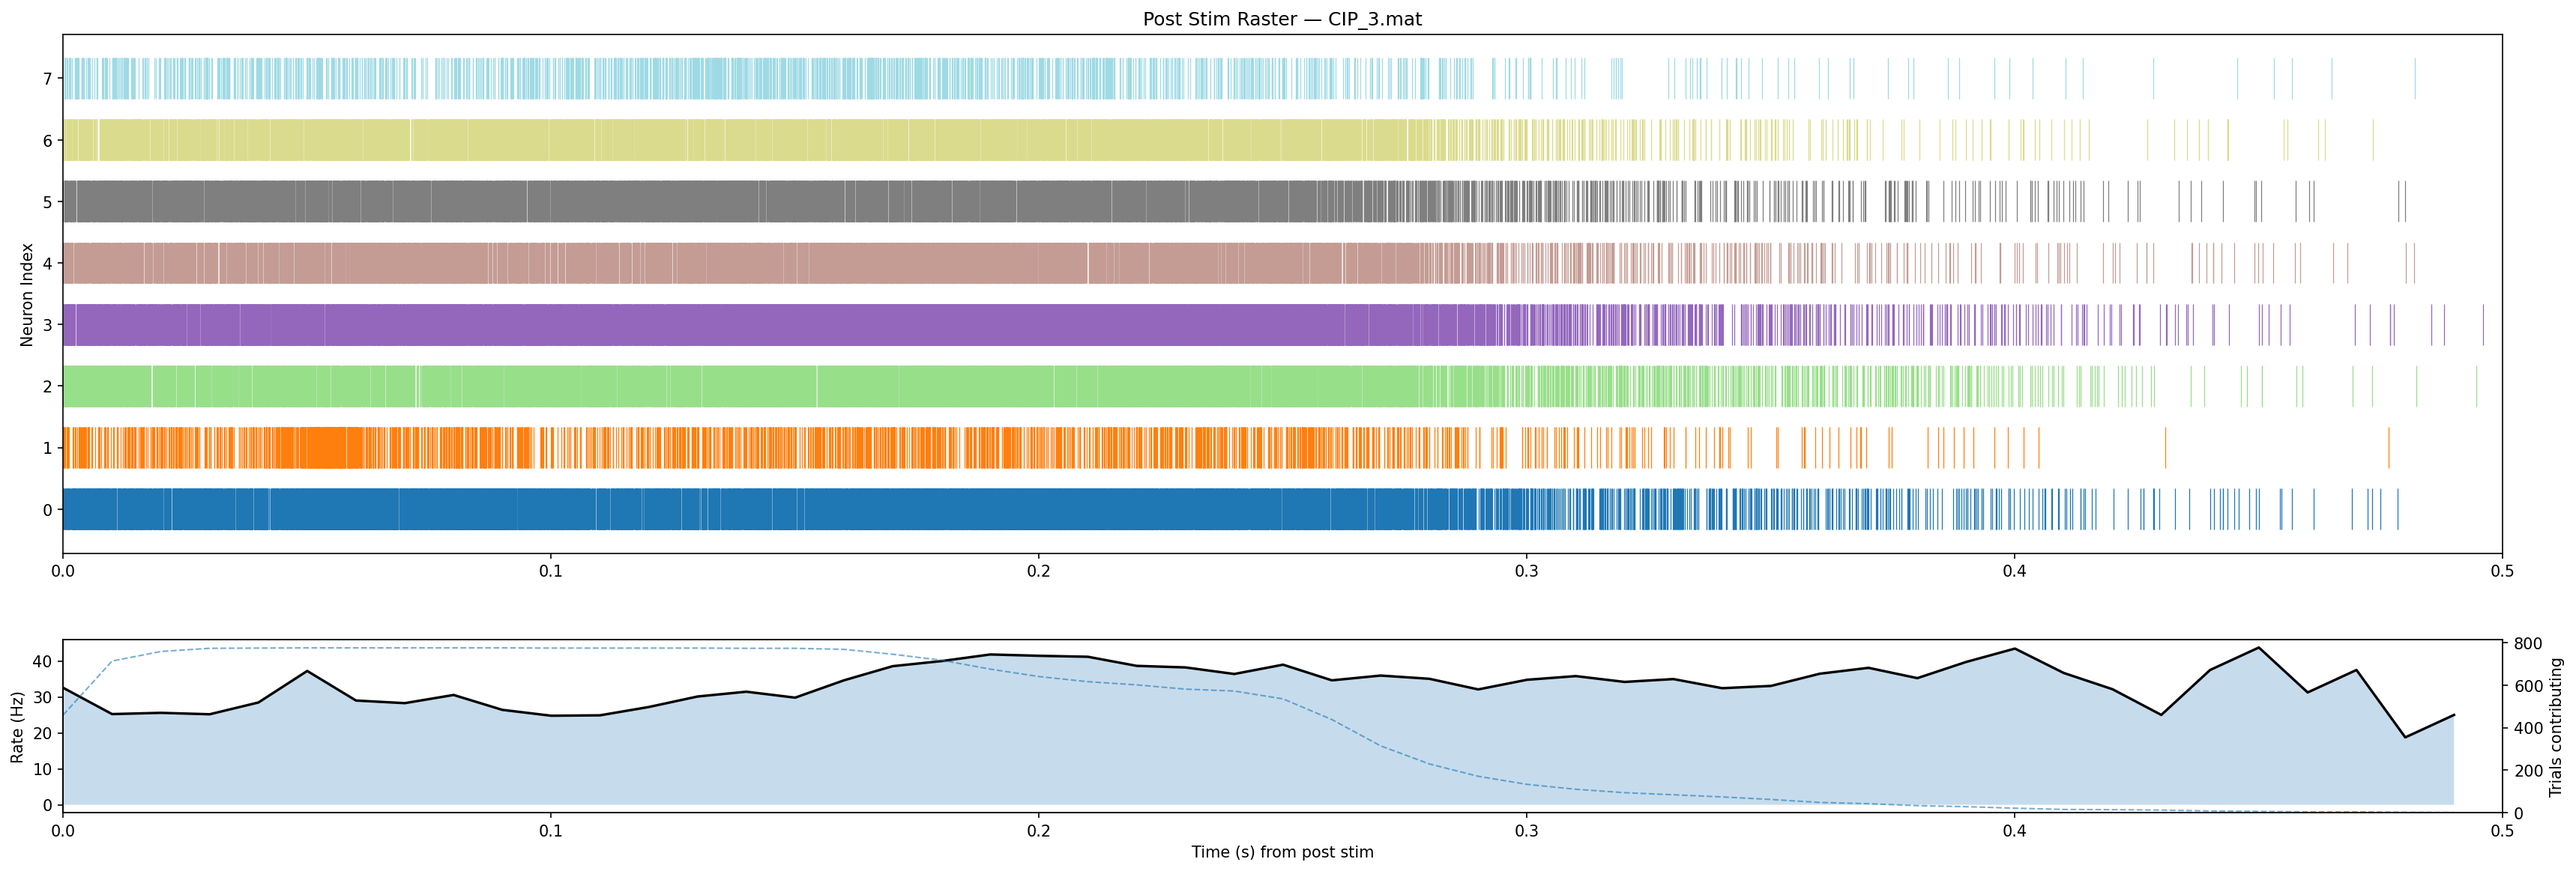
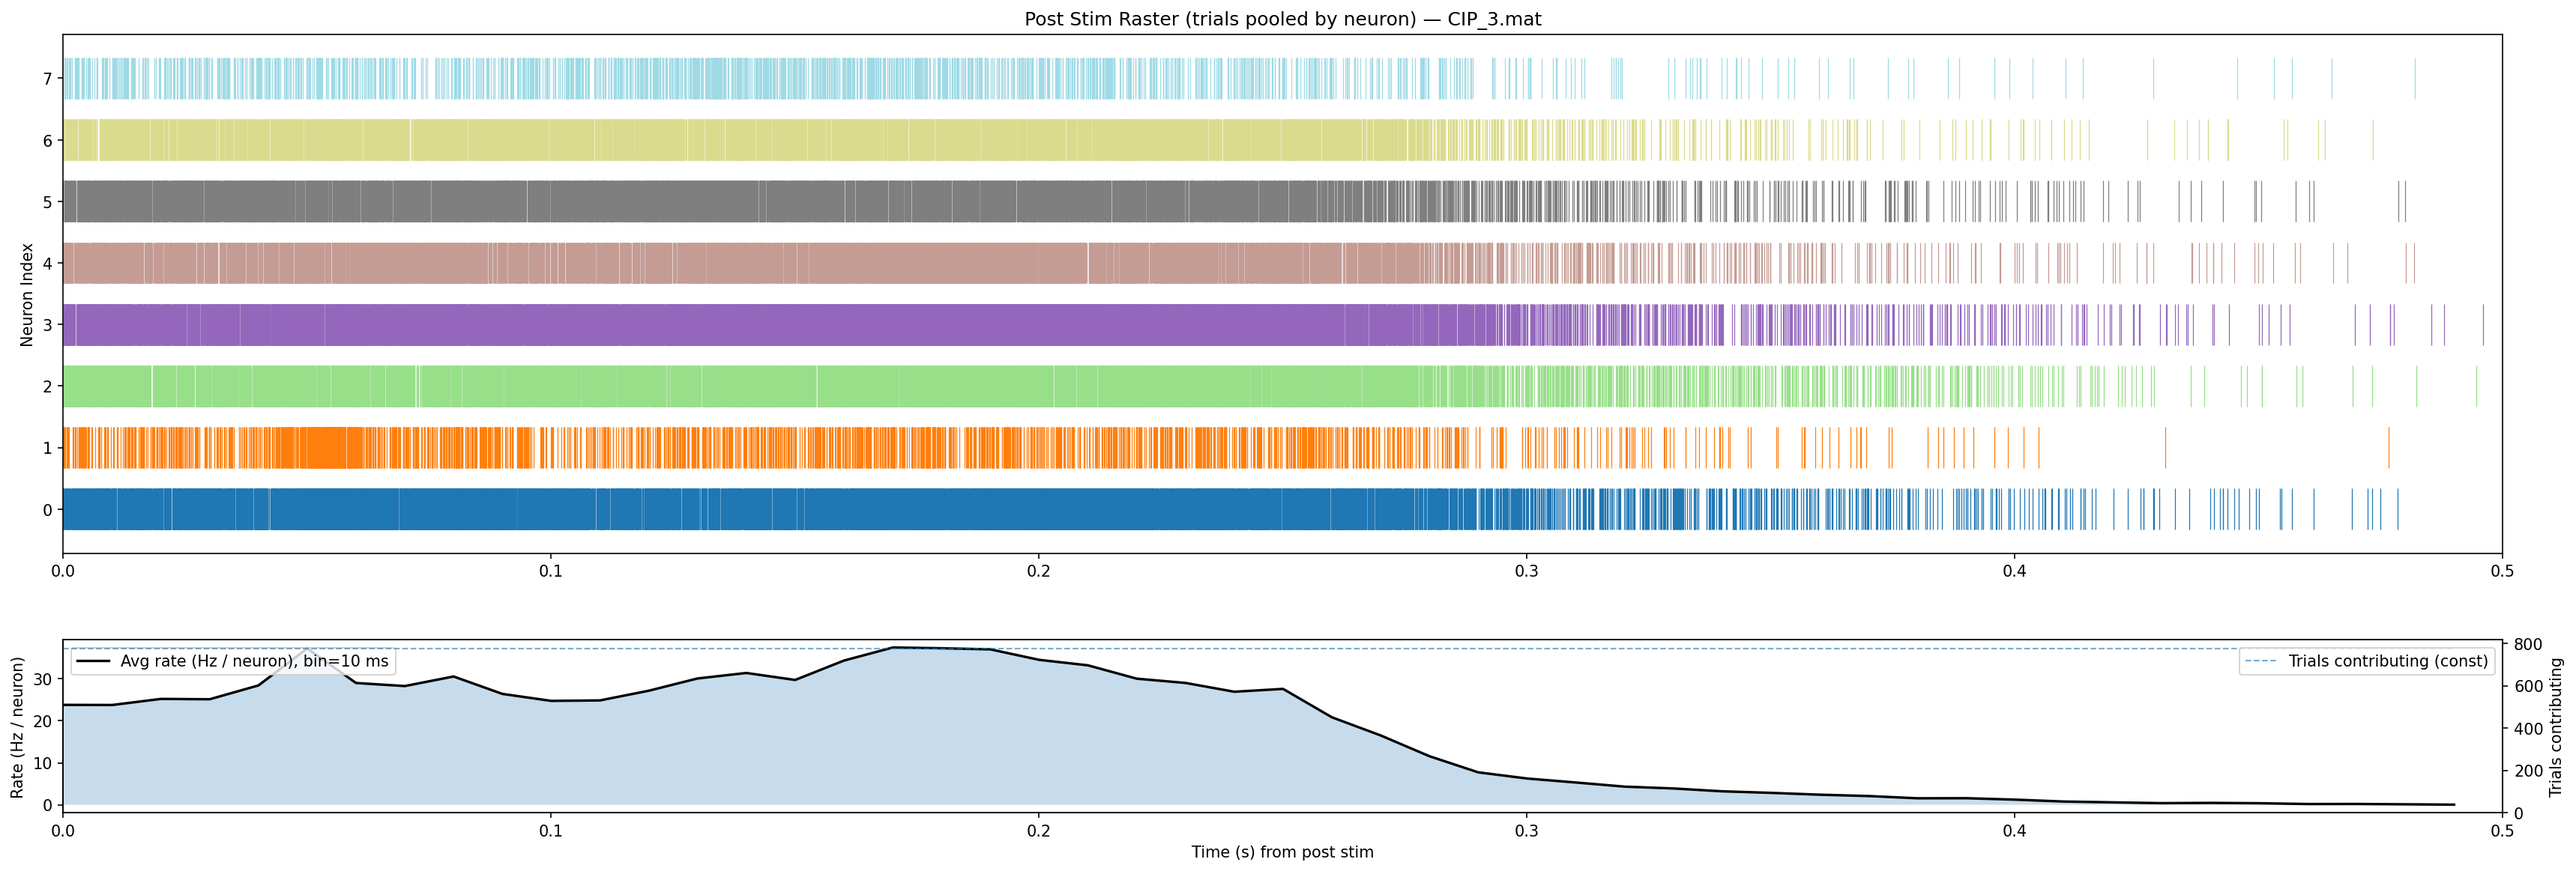
Bug Fixed

Changed region(s): [[0.0, 0.7429, 0.9651, 0.9286], [0.4047, 0.0, 0.5915, 0.031]]

diff --git a/fr_recording.py b/fr_recording.py
@@ -1,7 +1,13 @@
 #!/usr/bin/env python3
 # -*- coding: utf-8 -*-
 """
-Three-phase Raster + Population Rate (NaN-aware, per-trial coverage)
+Three-phase Raster + Population Rate
+
+Key choices:
+- Pre/During are aligned to STIM_ON (118).
+- Post is aligned to SACCADE_CHOICE_ON (120).
+- Robust unit parsing across list/tuple/object-array/ndarray.
+- Debug counters print how many times 120/130/131 appear in the session.
 """
 
 import os
@@ -9,114 +15,140 @@ import numpy as np
 import matplotlib.pyplot as plt
 from src.Loader import load_mat_session
 
-# Event IDs
+# -------- Event IDs --------
 STIM_ON_ID = 118
-STIM_OFF_KEEP_ID = 130
-STIM_OFF_BROKEN_ID = 131
-SACCADE_CHOICE_ON_ID = 120
+SACCADE_CHOICE_ON_ID = 120          # Post alignment anchor
+STIM_OFF_IDS = (130, 131)           # Only for diagnostics, not used for alignment
 
-# ================= 基础函数 =================
+# =============== Robust unit parsing ===============
+def _iter_units(units):
+    """
+    Normalize various storage formats into a list of 1D np.ndarrays (spike times):
+      - list/tuple/object-array: multiple units -> list of arrays
+      - numeric ndarray: 1D -> single unit; 2D -> each column is a unit
+      - anything else -> treated as a single unit
+    """
+    if units is None:
+        return []
+    if isinstance(units, (list, tuple)):
+        return [np.atleast_1d(u) for u in units]
+    if isinstance(units, np.ndarray):
+        if units.dtype == object:
+            return [np.atleast_1d(u) for u in units]
+        arr = np.atleast_1d(units)
+        if arr.ndim == 1:
+            return [arr]
+        if arr.ndim == 2:
+            # assume (time, unit) with units on columns
+            return [np.atleast_1d(arr[:, i]) for i in range(arr.shape[1])]
+    return [np.atleast_1d(units)]
+
 def build_neuron_map(trial):
+    """Create a [(tt, unit_idx), ...] map using the first trial's available TT blocks."""
     neuron_map = []
     for tt in range(1, 9):
         field = f"UnitT_TT{tt}"
         if hasattr(trial, field):
-            units = getattr(trial, field)
-            if isinstance(units, (list, tuple, np.ndarray)) and hasattr(units, '__len__'):
-                if isinstance(units, np.ndarray) and units.dtype != object:
-                    neuron_map.append((tt, 0))
-                else:
-                    for i in range(len(units)):
-                        neuron_map.append((tt, i))
-            else:
-                neuron_map.append((tt, 0))
+            units = _iter_units(getattr(trial, field))
+            for i in range(len(units)):
+                neuron_map.append((tt, i))
     return neuron_map
 
 def extract_spike_times(trial, neuron_map):
+    """Return absolute spike times per neuron for this trial following neuron_map layout."""
     spikes = []
     for tt, unit in neuron_map:
         field = f"UnitT_TT{tt}"
         if not hasattr(trial, field):
             spikes.append([])
             continue
-        units = getattr(trial, field)
-        if isinstance(units, (list, tuple, np.ndarray)) and hasattr(units, '__len__'):
-            if isinstance(units, np.ndarray) and units.dtype != object:
-                spikes.append(np.atleast_1d(units))
-            elif unit < len(units):
-                spikes.append(np.atleast_1d(units[unit]))
-            else:
-                spikes.append([])
-        else:
-            spikes.append(np.atleast_1d(units) if unit == 0 else [])
+        units = _iter_units(getattr(trial, field))
+        spikes.append(units[unit] if unit < len(units) else [])
     return spikes
 
+def _eids_to_int(eids):
+    """Convert trial.EID to int array (tolerant to float/strings)."""
+    eids = np.atleast_1d(eids)
+    try:
+        return np.rint(eids.astype(float)).astype(int)
+    except Exception:
+        return np.array([int(str(x)) for x in eids], dtype=int)
+
 def get_first_event_time(trial, candidates):
+    """
+    Return the earliest timestamp among candidate EIDs for this trial; None if not present.
+    """
     if not hasattr(trial, 'EID') or not hasattr(trial, 'EventT'):
         return None
-    eids = np.atleast_1d(trial.EID)
+    eids_int = _eids_to_int(trial.EID)
     times = np.atleast_1d(trial.EventT)
-    for eid in candidates:
-        idx = np.where(eids == eid)[0]
-        if len(idx) > 0:
-            return times[idx[0]]
-    return None
+    if times.size != eids_int.size:
+        # Malformed data: lengths must match. Skip this trial.
+        return None
+    idxs = np.where(np.isin(eids_int, np.array(candidates, dtype=int)))[0]
+    if idxs.size == 0:
+        return None
+    first_idx = idxs[np.argmin(times[idxs])]
+    return float(times[first_idx])
 
-# ================= 逐 trial 裁剪 + NaN-aware 平均 =================
+# =============== Trial-wise aggregation (Hz per neuron) ===============
 def compute_population_rate_nanaware(all_spikes, bin_size=0.01, window=(-0.5, 0.5)):
+    """
+    Inputs:
+      all_spikes: list over trials, each is list over neurons -> 1D arrays of spike times (relative).
+    Returns:
+      time_axis: left edges of bins
+      avg_rate:  average population rate per bin, in Hz per neuron
+      count_trials: number of contributing trials per bin (constant across the window)
+    """
     num_trials = len(all_spikes)
     num_neurons = len(all_spikes[0]) if num_trials > 0 else 0
     edges = np.arange(window[0], window[1] + bin_size, bin_size)
     num_bins = len(edges) - 1
-    centers = (edges[:-1] + edges[1:]) * 0.5
+
     sum_rate = np.zeros(num_bins, dtype=float)
-    count_trials = np.zeros(num_bins, dtype=int)
+    total_trials = 0
 
     for t in range(num_trials):
-        s_concat = []
+        trial_hist = np.zeros(num_bins, dtype=float)
         for n in range(num_neurons):
             s = np.asarray(all_spikes[t][n], dtype=float)
             if s.size:
                 s = s[(s >= window[0]) & (s <= window[1])]
                 if s.size:
-                    s_concat.append(s)
-        if not s_concat:
-            continue
-        s_all = np.concatenate(s_concat)
-        cov_start = float(np.min(s_all))
-        cov_end   = float(np.max(s_all))
-        covered_mask = (centers >= cov_start) & (centers <= cov_end)
-        if not np.any(covered_mask):
-            continue
-        trial_hist = np.zeros(num_bins, dtype=float)
-        for n in range(num_neurons):
-            s = np.asarray(all_spikes[t][n], dtype=float)
-            if s.size:
-                h, _ = np.histogram(s, bins=edges)
-                trial_hist += h
+                    h, _ = np.histogram(s, bins=edges)  # counts per bin
+                    trial_hist += h
+        # Convert to Hz per neuron
         trial_rate = (trial_hist / max(num_neurons, 1)) / bin_size
-        sum_rate[covered_mask]     += trial_rate[covered_mask]
-        count_trials[covered_mask] += 1
+        sum_rate += trial_rate
+        total_trials += 1
 
-    with np.errstate(invalid='ignore', divide='ignore'):
-        avg_rate = sum_rate / count_trials
-    avg_rate[count_trials == 0] = np.nan
+    if total_trials == 0:
+        return edges[:-1], np.full(num_bins, np.nan), np.zeros(num_bins, dtype=int)
+
+    avg_rate = sum_rate / total_trials
+    count_trials = np.full(num_bins, total_trials, dtype=int)
     return edges[:-1], avg_rate, count_trials
 
-# ================= 绘图 =================
-def plot_raster_and_rate(all_spikes_abs, align_times, neuron_map, fname, label, window, output_dir, bin_size=0.01):
+# =============== Plotting (pooled-by-neuron raster + population rate) ===============
+def plot_raster_and_rate(all_spikes_abs, align_times, neuron_map, fname, label, window,
+                         output_dir, bin_size=0.01):
     import matplotlib.gridspec as gridspec
     num_trials = len(all_spikes_abs)
     num_neurons = len(neuron_map)
+    if num_trials == 0 or num_neurons == 0:
+        return
+
     colors = plt.cm.tab20(np.linspace(0, 1, num_neurons))
-    spacing = 1.2
-    height = 0.8
+    spacing, height = 1.2, 0.8
     ytick_positions = [i * spacing + 1 for i in range(num_neurons)]
+
     fig = plt.figure(figsize=(28, 9))
     gs = gridspec.GridSpec(2, 1, height_ratios=[3, 1], hspace=0.25)
     ax_raster = fig.add_subplot(gs[0])
     ax_rate = fig.add_subplot(gs[1])
 
+    # Convert absolute to relative spike times with respect to alignment
     all_spikes_rel = []
     for trial_idx in range(num_trials):
         rel_trial = []
@@ -130,72 +162,149 @@ def plot_raster_and_rate(all_spikes_abs, align_times, neuron_map, fname, label, 
             rel_trial.append(rel_s)
         all_spikes_rel.append(rel_trial)
 
+    # Top: pooled-by-neuron raster across trials
     for n_idx in range(num_neurons):
         color = colors[n_idx % len(colors)]
         center = ytick_positions[n_idx]
         spike_times = [t_s[n_idx] for t_s in all_spikes_rel]
-        spike_flat = np.concatenate([s for s in spike_times if s.size]) if any(s.size for s in spike_times) else np.array([])
+        spike_flat = (np.concatenate([s for s in spike_times if s.size])
+                      if any(s.size for s in spike_times) else np.array([]))
         if spike_flat.size:
-            ax_raster.vlines(spike_flat, center - height/2, center + height/2, color=color, linewidth=0.6)
+            ax_raster.vlines(spike_flat, center - height/2, center + height/2,
+                             color=color, linewidth=0.6)
 
-    ax_raster.set_title(f"{label} Raster — {fname}")
+    ax_raster.set_title(f"{label} Raster (trials pooled by neuron) — {fname}")
     ax_raster.set_ylabel("Neuron Index")
     ax_raster.set_yticks(ytick_positions)
     ax_raster.set_yticklabels([f"{i}" for i in range(num_neurons)])
     ax_raster.set_xlim(window)
 
-    time_axis, avg_rate, n_contrib = compute_population_rate_nanaware(all_spikes_rel, bin_size=bin_size, window=window)
-    ax_rate.plot(time_axis, avg_rate, linewidth=1.6, color="black")
+    # Bottom: population rate + trial count (constant)
+    time_axis, avg_rate, n_contrib = compute_population_rate_nanaware(
+        all_spikes_rel, bin_size=bin_size, window=window
+    )
+    ax_rate.plot(time_axis, avg_rate, linewidth=1.6, color="black",
+                 label=f"Avg rate (Hz / neuron), bin={bin_size*1000:.0f} ms")
     ax_rate.fill_between(time_axis, 0, np.nan_to_num(avg_rate, nan=0.0), alpha=0.25)
-    ax_rate.set_ylabel("Rate (Hz)")
+    ax_rate.set_ylabel("Rate (Hz / neuron)")
     ax_rate.set_xlabel(f"Time (s) from {label.lower()}")
     ax_rate.set_xlim(window)
 
     ax2 = ax_rate.twinx()
-    ax2.plot(time_axis, n_contrib, alpha=0.6, linestyle='--', linewidth=1.0)
+    ax2.plot(time_axis, n_contrib, alpha=0.6, linestyle='--', linewidth=1.0,
+             label="Trials contributing (constant)")
     ax2.set_ylabel("Trials contributing")
     ax2.set_ylim(bottom=0)
 
+    ax_rate.legend(loc="upper left")
+    ax2.legend(loc="upper right")
+
+    os.makedirs(output_dir, exist_ok=True)
     save_name = f"raster_rate_nanaware_{label.lower().replace(' ', '_')}_{os.path.splitext(fname)[0]}.png"
     plt.savefig(os.path.join(output_dir, save_name), dpi=150, bbox_inches='tight')
     plt.close()
 
-# ================= 文件处理 =================
-def analyze_file(fname, window, align_to_list, label, output_dir):
+# =============== Optional: trial-by-trial raster for selected neurons ===============
+def plot_trial_by_trial_raster(all_spikes_abs, align_times, neuron_indices,
+                               fname, label, window, output_dir):
+    """
+    Helpful for showing colleagues that trial-wise sparsity matches the averaged Hz.
+    Draws trial on the y-axis for each selected neuron.
+    """
+    num_trials = len(all_spikes_abs)
+    for n_idx in neuron_indices:
+        fig, ax = plt.subplots(figsize=(10, 6))
+        for t in range(num_trials):
+            s_abs = np.asarray(all_spikes_abs[t][n_idx], dtype=float)
+            s_rel = s_abs - align_times[t]
+            s_rel = s_rel[(s_rel >= window[0]) & (s_rel <= window[1])]
+            if s_rel.size:
+                ax.vlines(s_rel, t + 0.4, t + 1.4, linewidth=0.6)
+        ax.set_title(f"{label} Trial-by-trial Raster — Neuron {n_idx} — {fname}")
+        ax.set_ylabel("Trial")
+        ax.set_xlabel(f"Time (s) from {label.lower()}")
+        ax.set_xlim(window)
+        plt.tight_layout()
+        os.makedirs(output_dir, exist_ok=True)
+        out = f"trial_raster_{label.lower().replace(' ', '_')}_neuron{n_idx}_{os.path.splitext(fname)[0]}.png"
+        plt.savefig(os.path.join(output_dir, out), dpi=150, bbox_inches='tight')
+        plt.close()
+
+# =============== Per-file processing (with event counters) ===============
+def analyze_file(fname, window, align_to_list, label, output_dir,
+                 bin_size=0.01, show_trial_rasters=False, trial_neurons=(0,)):
     print(f"\n[Processing] {fname} [{label}]")
     T = load_mat_session(os.path.join("./data", fname))
     if len(T) == 0:
         print("[WARN] Empty session.")
         return
+
     neuron_map = build_neuron_map(T[0])
     all_spikes_abs, align_times = [], []
+
+    # Count occurrences of 120 / 130 / 131 across the session
+    cnt_120 = cnt_130 = cnt_131 = 0
+
     for trial in T:
+        if hasattr(trial, 'EID'):
+            eids_int = _eids_to_int(trial.EID)
+            cnt_120 += int(np.sum(eids_int == 120))
+            cnt_130 += int(np.sum(eids_int == 130))
+            cnt_131 += int(np.sum(eids_int == 131))
+
         align = get_first_event_time(trial, align_to_list)
         if align is None:
             continue
         spikes = extract_spike_times(trial, neuron_map)
         all_spikes_abs.append(spikes)
         align_times.append(align)
+
+    print(f"[DEBUG] {fname}: CHOICE_ON(120)={cnt_120}, OFF(130)={cnt_130}, OFF(131)={cnt_131}")
+
     if len(all_spikes_abs) == 0:
         print("[WARN] No valid trials.")
         return
+
     all_spikes_abs = np.array(all_spikes_abs, dtype=object)
     align_times = np.array(align_times, dtype=float)
-    plot_raster_and_rate(all_spikes_abs, align_times, neuron_map, fname, label, window, output_dir)
 
-# ================= 主程序 =================
+    # Main figure: pooled-by-neuron raster + population rate
+    plot_raster_and_rate(all_spikes_abs, align_times, neuron_map, fname, label,
+                         window, output_dir, bin_size=bin_size)
+
+    # Optional per-trial rasters for a few representative neurons
+    if show_trial_rasters and len(neuron_map) > 0:
+        sel = [n for n in trial_neurons if 0 <= n < len(neuron_map)]
+        if sel:
+            plot_trial_by_trial_raster(all_spikes_abs, align_times, sel, fname, label,
+                                       window, output_dir)
+
+# =============== Entry point ===============
 def main():
     data_dir = "./data"
     output_dir = "raster_rate_nanaware_three_phase"
     os.makedirs(output_dir, exist_ok=True)
-    files = [f for f in os.listdir(data_dir) if f.endswith(".mat")]
+    files = sorted([f for f in os.listdir(data_dir) if f.endswith(".mat")])
 
     for f in files:
-        analyze_file(f, window=(-0.5, 0), align_to_list=[STIM_ON_ID], label="Pre Stim", output_dir=output_dir)
-        analyze_file(f, window=(0, 0.5), align_to_list=[STIM_ON_ID], label="During Stim", output_dir=output_dir)
-        analyze_file(f, window=(0, 0.5),
-                     align_to_list=[STIM_OFF_KEEP_ID, STIM_OFF_BROKEN_ID, SACCADE_CHOICE_ON_ID],
-                     label="Post Stim", output_dir=output_dir)
+        # Pre: align to STIM_ON (118)
+        analyze_file(f, window=(-0.5, 0.0), align_to_list=[STIM_ON_ID], label="Pre Stim",
+                     output_dir=output_dir, bin_size=0.01, show_trial_rasters=False)
+
+        # During: align to STIM_ON (118)
+        analyze_file(f, window=(0.0, 0.5), align_to_list=[STIM_ON_ID], label="During Stim",
+                     output_dir=output_dir, bin_size=0.01, show_trial_rasters=False)
+
+        # Post: align to SACCADE_CHOICE_ON (120)
+        analyze_file(f, window=(0.0, 0.5), align_to_list=[SACCADE_CHOICE_ON_ID], label="Post Stim",
+                     output_dir=output_dir, bin_size=0.01, show_trial_rasters=False)
+
+        # Optional: if you also want to inspect OFF (130/131), uncomment below
+        # analyze_file(f, window=(0.0, 0.5), align_to_list=list(STIM_OFF_IDS), label="Post (OFF 130/131)",
+        #              output_dir=output_dir, bin_size=0.01, show_trial_rasters=False)
+
+# Backward-compat alias for older naming that used "CHOISE"
+SACCADE_CHOISE_ON_ID = SACCADE_CHOICE_ON_ID
 
 if __name__ == "__main__":
     main()
